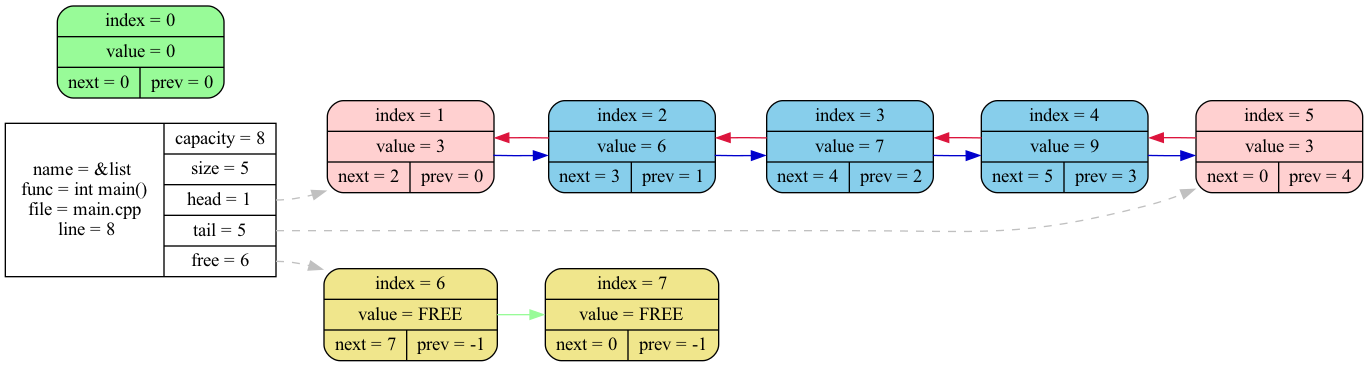
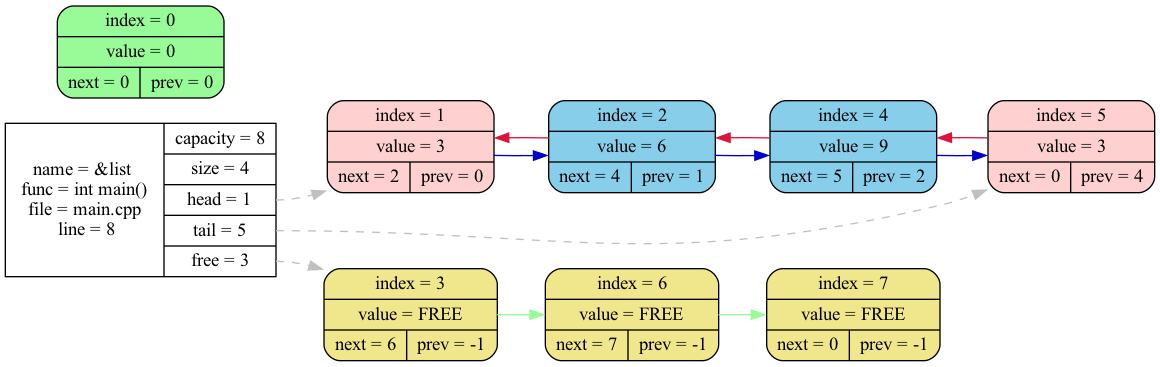
some list_dump changes

diff --git a/list_funcs.cpp b/list_funcs.cpp
@@ -246,32 +246,3 @@ int list_clear(list_s * list)
 
     return 0;
 }
-
-void list_dump(list_s * list)
-{
-    assert(list != NULL);
-
-    for (int i = 0; i < list->capacity; i++) printf("%4d", i);
-    printf("\n");
-
-    for (int i = 0; i < list->capacity; i++)
-    {
-        printf("%4d", list->data[i].value);
-    }
-
-    printf("\n");
-
-    for (int i = 0; i < list->capacity; i++)
-    {
-        printf("%4d", list->data[i].next);
-    }
-
-        printf("\n");
-
-    for (int i = 0; i < list->capacity; i++)
-    {
-        printf("%4d", list->data[i].prev);
-    }
-
-    printf("\n head = %d\n tail = %d \n free = %d \n size = %d\n", list->head, list->tail, list->free, list->size);
-}

diff --git a/list.h b/list.h
@@ -131,12 +131,6 @@ int list_insert_tail(list_s * list, elem value);
 
 int list_insert_head(list_s * list, elem value);
 
-//! @brief Func for print list's data
-//!
-//! @param [in] list - ptr to list's struct
-
-void list_dump(list_s * list);
-
 //! @brief Remove element after given index
 //!
 //! @param [in] list - ptr to list's struct

diff --git a/debug.h b/debug.h
@@ -47,7 +47,7 @@ int link_nodes(int index1, int index2, const char * color);
 //! Make .dot file using funcs above and use graphiz to make png picture of dump
 //! @param [in] list - ptr to list
 
-int dump_list(list_s * list);
+int list_dump(list_s * list);
 
 //! @brief Add arrows from node_info to head, tail and free
 //!

diff --git a/main.cpp b/main.cpp
@@ -15,11 +15,9 @@ int main(void)
     list_insert_tail(&list, 7);
     list_insert_tail(&list, 9);
     list_insert_tail(&list, 3);
-
+    list_pop(&list, 3);
 
     list_dump(&list);
-
-    dump_list(&list);
 
     close_graphiz_file();
 

diff --git a/list_debug.cpp b/list_debug.cpp
@@ -80,7 +80,7 @@ int link_head_tail_free(list_s * list)
     return 0;
 }
 
-int dump_list(list_s * list)
+int list_dump(list_s * list)
 {
     assert(list != NULL);
     assert(graphiz_file != NULL);
